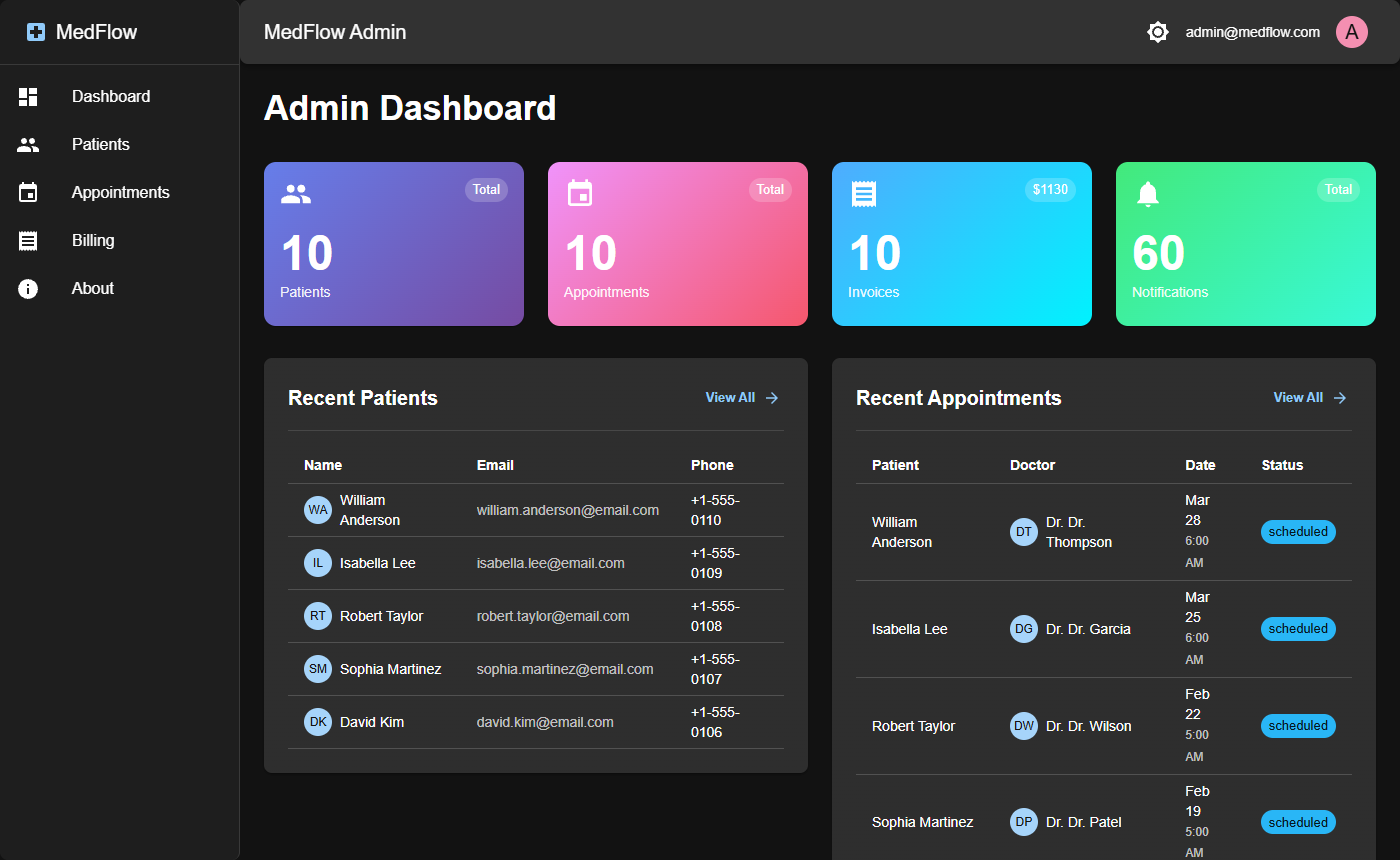
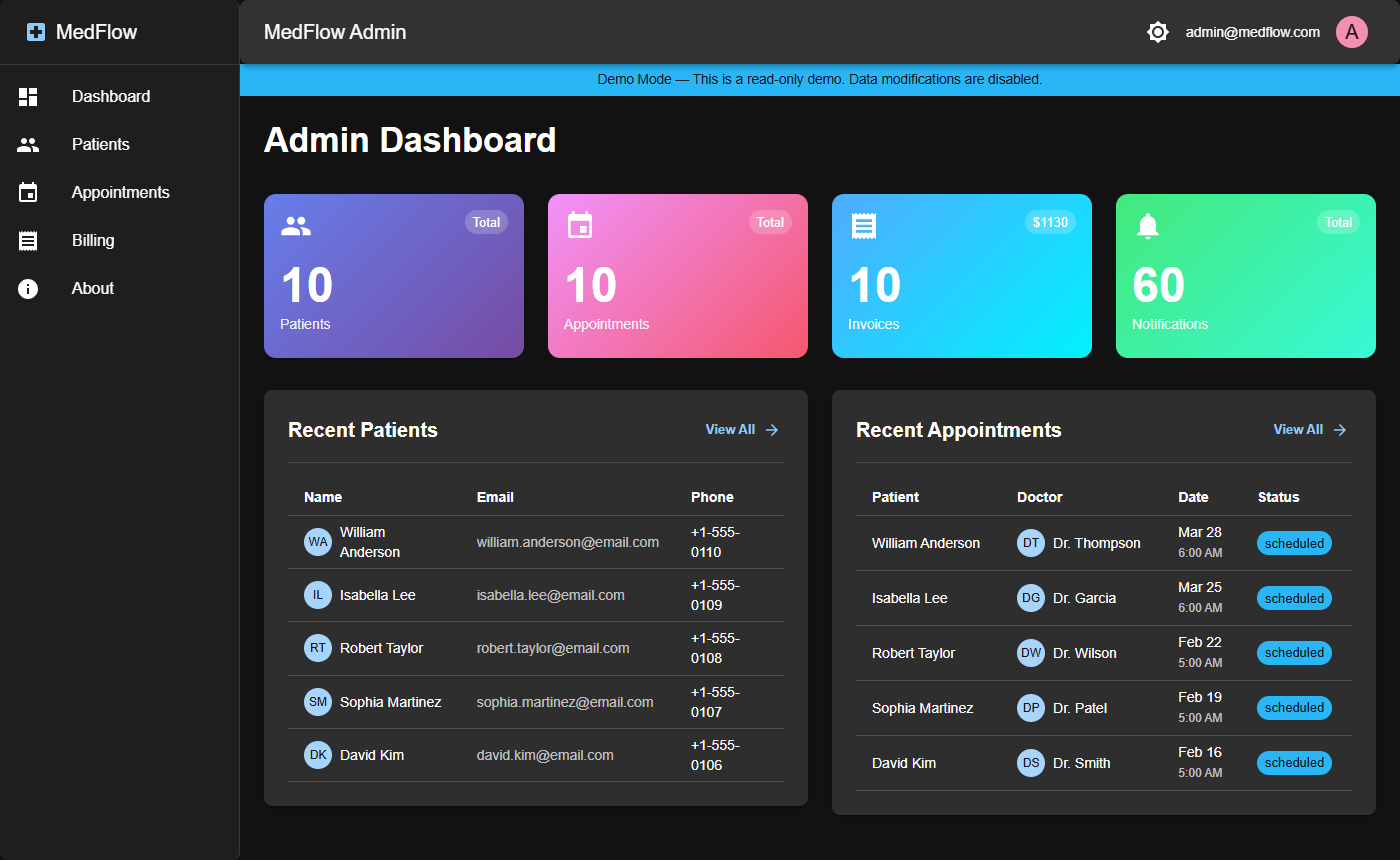
Add the MIT license file the readme already declares and refresh the screenshot

Changed region(s): [[0.1536, 0.0605, 1.0, 1.0], [0.6143, 0.6651, 0.6757, 0.786], [0.8293, 0.514, 0.86, 0.5442]]

diff --git a/README.md b/README.md
@@ -229,4 +229,8 @@ cd src/Services/NotificationService/NotificationService.API && dotnet run
 
 ## License
 
-MIT
+MIT. See [LICENSE](LICENSE).
+
+## Author
+
+Alex Husniddinov
